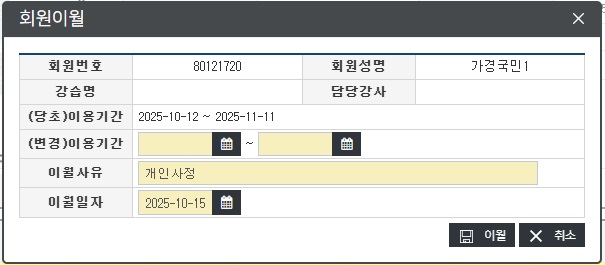
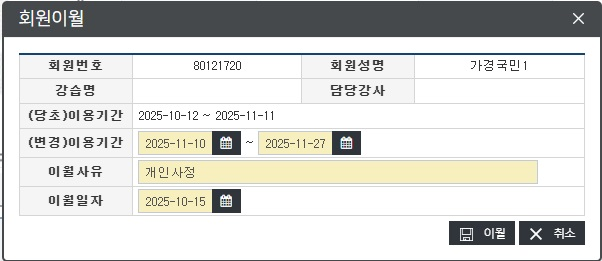
반환 및 이월 수정 사진 업로드

Changed region(s): [[0.0, 0.0, 1.0, 1.0], [0.0897, 0.3065, 0.1794, 0.3678]]

diff --git a/public/gagyeong_sportscenter/admin_manual/manual_2_1_5_1_3.html b/public/gagyeong_sportscenter/admin_manual/manual_2_1_5_1_3.html
@@ -83,9 +83,9 @@
 										<div class="image-container">
 											<div class="image-wrapper">
 												<img
-													src="https://manual-5d03dc.gitlab.io/manual_image/image_2_1_5_1_3_1_1.jpg"
+													src="https://manual-5d03dc.gitlab.io/manual_image/image_2_1_5_1_3_11.jpg"
 													class="popup-image"
-													alt="환분신청" />
+													alt="환불신청" />
 												<div class="overlay-text"></div>
 											</div>
 										</div>
@@ -93,9 +93,9 @@
 										<div class="image-container">
 											<div class="image-wrapper">
 												<img
-													src="https://manual-5d03dc.gitlab.io/manual_image/image_2_1_5_1_3_2.jpg"
+													src="https://manual-5d03dc.gitlab.io/manual_image/image_2_1_5_1_3_12.jpg"
 													class="popup-image"
-													alt="환분신청" />
+													alt="환불신청" />
 												<div class="overlay-text"></div>
 											</div>
 										</div>
@@ -103,9 +103,9 @@
 										<div class="image-container">
 											<div class="image-wrapper">
 												<img
-													src="https://manual-5d03dc.gitlab.io/manual_image/image_2_1_5_1_3_3.jpg"
+													src="https://manual-5d03dc.gitlab.io/manual_image/image_2_1_5_1_3_13.jpg"
 													class="popup-image"
-													alt="환분신청" />
+													alt="환불신청" />
 												<div class="overlay-text"></div>
 											</div>
 										</div>
@@ -113,9 +113,9 @@
 										<div class="image-container">
 											<div class="image-wrapper">
 												<img
-													src="https://manual-5d03dc.gitlab.io/manual_image/image_2_1_5_1_3_4.jpg"
+													src="https://manual-5d03dc.gitlab.io/manual_image/image_2_1_5_1_3_14.jpg"
 													class="popup-image"
-													alt="환분신청" />
+													alt="환불신청" />
 												<div class="overlay-text"></div>
 											</div>
 										</div>
@@ -123,9 +123,9 @@
 										<div class="image-container">
 											<div class="image-wrapper">
 												<img
-													src="https://manual-5d03dc.gitlab.io/manual_image/image_2_1_5_1_3_5.jpg"
+													src="https://manual-5d03dc.gitlab.io/manual_image/image_2_1_5_1_3_15.jpg"
 													class="popup-image"
-													alt="환분신청" />
+													alt="환불신청" />
 												<div class="overlay-text"></div>
 											</div>
 										</div>
@@ -133,29 +133,20 @@
 										<div class="image-container">
 											<div class="image-wrapper">
 												<img
-													src="https://manual-5d03dc.gitlab.io/manual_image/image_2_1_5_1_3_1_6.jpg"
+													src="https://manual-5d03dc.gitlab.io/manual_image/image_2_1_5_1_3_16.jpg"
 													class="popup-image"
-													alt="환분신청" />
+													alt="환불신청" />
 												<div class="overlay-text"></div>
 											</div>
 										</div>
 										<li>공제금액과 환불금액을 확인후 고객에게 공지를 한다.</li>
-										<div class="image-container">
-											<div class="image-wrapper">
-												<img
-													src="https://manual-5d03dc.gitlab.io/manual_image/image_2_1_5_1_3_1_7.jpg"
-													class="popup-image"
-													alt="환분신청" />
-												<div class="overlay-text"></div>
-											</div>
-										</div>
 										<li>강습 및 반환을 선택후 반환 사유 및 반환 계좌번호를 작성을 한다.</li>
 										<div class="image-container">
 											<div class="image-wrapper">
 												<img
-													src="https://manual-5d03dc.gitlab.io/manual_image/image_2_1_5_1_3_1_8.jpg"
+													src="https://manual-5d03dc.gitlab.io/manual_image/image_2_1_5_1_3_17.jpg"
 													class="popup-image"
-													alt="환분신청" />
+													alt="환불신청" />
 												<div class="overlay-text"></div>
 											</div>
 										</div>
@@ -163,9 +154,9 @@
 										<div class="image-container">
 											<div class="image-wrapper">
 												<img
-													src="https://manual-5d03dc.gitlab.io/manual_image/image_2_1_5_1_3_1_9.jpg"
+													src="https://manual-5d03dc.gitlab.io/manual_image/image_2_1_5_1_3_18.jpg"
 													class="popup-image"
-													alt="환분신청" />
+													alt="환불신청" />
 												<div class="overlay-text"></div>
 											</div>
 										</div>

diff --git a/public/gagyeong_sportscenter/admin_manual/manual_2_1_5_7_1.html b/public/gagyeong_sportscenter/admin_manual/manual_2_1_5_7_1.html
@@ -82,11 +82,65 @@
 									style="display: none; flex: 1; padding-right: 20px; margin-top: 10px">
 									<ul style="list-style-type: disc; padding-left: 20px; margin: 0">
 										<li>정기권 관리를 선택한다.</li>
+										<div class="image-container">
+											<div class="image-wrapper">
+												<img
+													src="https://manual-5d03dc.gitlab.io/manual_image/image_2_1_5_1_3_1_1.jpg"
+													class="popup-image"
+													alt="" />
+												<div class="overlay-text"></div>
+											</div>
+										</div>
 										<li>정기권 등록을 선택한다.</li>
+										<div class="image-container">
+											<div class="image-wrapper">
+												<img
+													src="https://manual-5d03dc.gitlab.io/manual_image/image_2_1_5_1_3_1_1.jpg"
+													class="popup-image"
+													alt="" />
+												<div class="overlay-text"></div>
+											</div>
+										</div>
 										<li>차량번호, 종료일자를 필수로 입력을 한다.</li>
+										<div class="image-container">
+											<div class="image-wrapper">
+												<img
+													src="https://manual-5d03dc.gitlab.io/manual_image/image_2_1_5_1_3_1_1.jpg"
+													class="popup-image"
+													alt="" />
+												<div class="overlay-text"></div>
+											</div>
+										</div>
 										<p>💡 고객번호, 전화번호, 차종 등 선택사항으로 입력을 한다.</p>
-										<li>현금을 클릭을 한다.</li>
+										<div class="image-container">
+											<div class="image-wrapper">
+												<img
+													src="https://manual-5d03dc.gitlab.io/manual_image/image_2_1_5_1_3_1_1.jpg"
+													class="popup-image"
+													alt="" />
+												<div class="overlay-text"></div>
+											</div>
+										</div>
+										<li>현금을 선택 한다.</li>
+										<div class="image-container">
+											<div class="image-wrapper">
+												<img
+													src="https://manual-5d03dc.gitlab.io/manual_image/image_2_1_5_1_3_1_1.jpg"
+													class="popup-image"
+													alt="" />
+												<div class="overlay-text"></div>
+											</div>
+										</div>
 										<li>정기권현황을 선택하여 잘 등록이 되었는지 확인한다.</li>
+										<div class="image-container">
+											<div class="image-wrapper">
+												<img
+													src="https://manual-5d03dc.gitlab.io/manual_image/image_2_1_5_1_3_1_1.jpg"
+													class="popup-image"
+													alt="" />
+												<div class="overlay-text"></div>
+											</div>
+										</div>
 									</ul>
 								</div>
 							</tr>

diff --git a/public/gagyeong_sportscenter/admin_manual/manual_2_1_5_7_3.html b/public/gagyeong_sportscenter/admin_manual/manual_2_1_5_7_3.html
@@ -70,7 +70,7 @@
 									<li>
 										<h3>
 											<strong
-												onclick="toggleDiv('Register')"
+												onclick="toggleDiv('Register3')"
 												style="cursor: pointer; color: rgb(0, 0, 0)">
 												1⃣ 차단기 관리(중앙관제)📋
 											</strong>
@@ -78,28 +78,15 @@
 									</li>
 								</ul>
 								<div
-									id="Register"
+									id="Register3"
 									style="display: none; flex: 1; padding-right: 20px; margin-top: 10px">
 									<ul style="list-style-type: disc; padding-left: 20px; margin: 0">
-										<li>발행입장권 선택에서 원하는 입장권을 선택한다.</li>
-									</ul>
-								</div>
-								<ul style="list-style-type: none; padding-left: 0; margin: 0">
-									<li>
-										<h3>
-											<strong
-												onclick="toggleDiv('Register2')"
-												style="cursor: pointer; color: rgb(0, 0, 0)">
-												1⃣ 차단기 관리(본체)📋
-											</strong>
-										</h3>
-									</li>
-								</ul>
-								<div
-									id="Register2"
-									style="display: none; flex: 1; padding-right: 20px; margin-top: 10px">
-									<ul style="list-style-type: disc; padding-left: 20px; margin: 0">
-										<li>발행입장권 선택에서 원하는 입장권을 선택한다.</li>
+										<li>장비선택(입차, 출차)</li>
+										<li>차단기 열림</li>
+										<li>차단기 닫기</li>
+										<li>차단기 열림 고정</li>
+										<li>차단기 열림 고정 해제</li>
+										<p>고정해제 ➡ 닫힘</p>
 									</ul>
 								</div>
 							</tr>

diff --git a/public/gagyeong_sportscenter/admin_manual/manual_2_1_5_7_2.html b/public/gagyeong_sportscenter/admin_manual/manual_2_1_5_7_2.html
@@ -103,8 +103,12 @@
 									<ul style="list-style-type: disc; padding-left: 20px; margin: 0">
 										<li>무인정산기 현황에 사전무인이 선택이 되어 있는지 확인한다.</li>
 										<p>💡 출구무인이로 되어 있을 경우 추차 차단기가 열리지 않는다!</p>
-										<li>사전무인에 차량 번호를 입력을 한다.</li>
-										<li>차량번호가 맞으면 P모양의 아이콘을 선택한다.</li>
+										<li>
+											사전무인에 차량 번호 입력하여 검색 후 해당차량의 감면해택을 적용한다.<방문
+											혹은 쿠폰 적용>
+										</li>
+										<li>P모양의 아이콘을 선택한다.</li>
+										<p>💡 방문 혹은 쿠폰 적용 시 해당차량은 사전정산 차량(입차중)으로 처리된다.</p>
 									</ul>
 								</div>
 							</tr>
